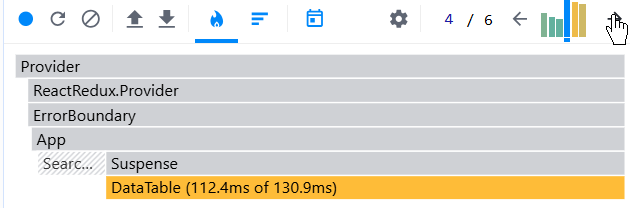
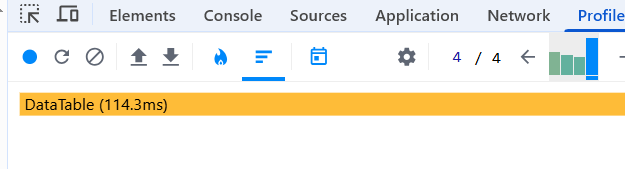
docs: modify readme.md

diff --git a/README.md b/README.md
@@ -54,7 +54,15 @@ Before & After Optimization
 
   ![alt text](public/pic3.png)
 
+  ![alt text](public/pic4.png)
+  add columns 
+  ![alt text](public/pic6.png)
+
 ## Ranked Chart
+  ![alt text](public/pic7.png)
+  ![alt text](public/pic8.png)
+   add columns 
+  ![alt text](public/pic5.png)
 
 
 
